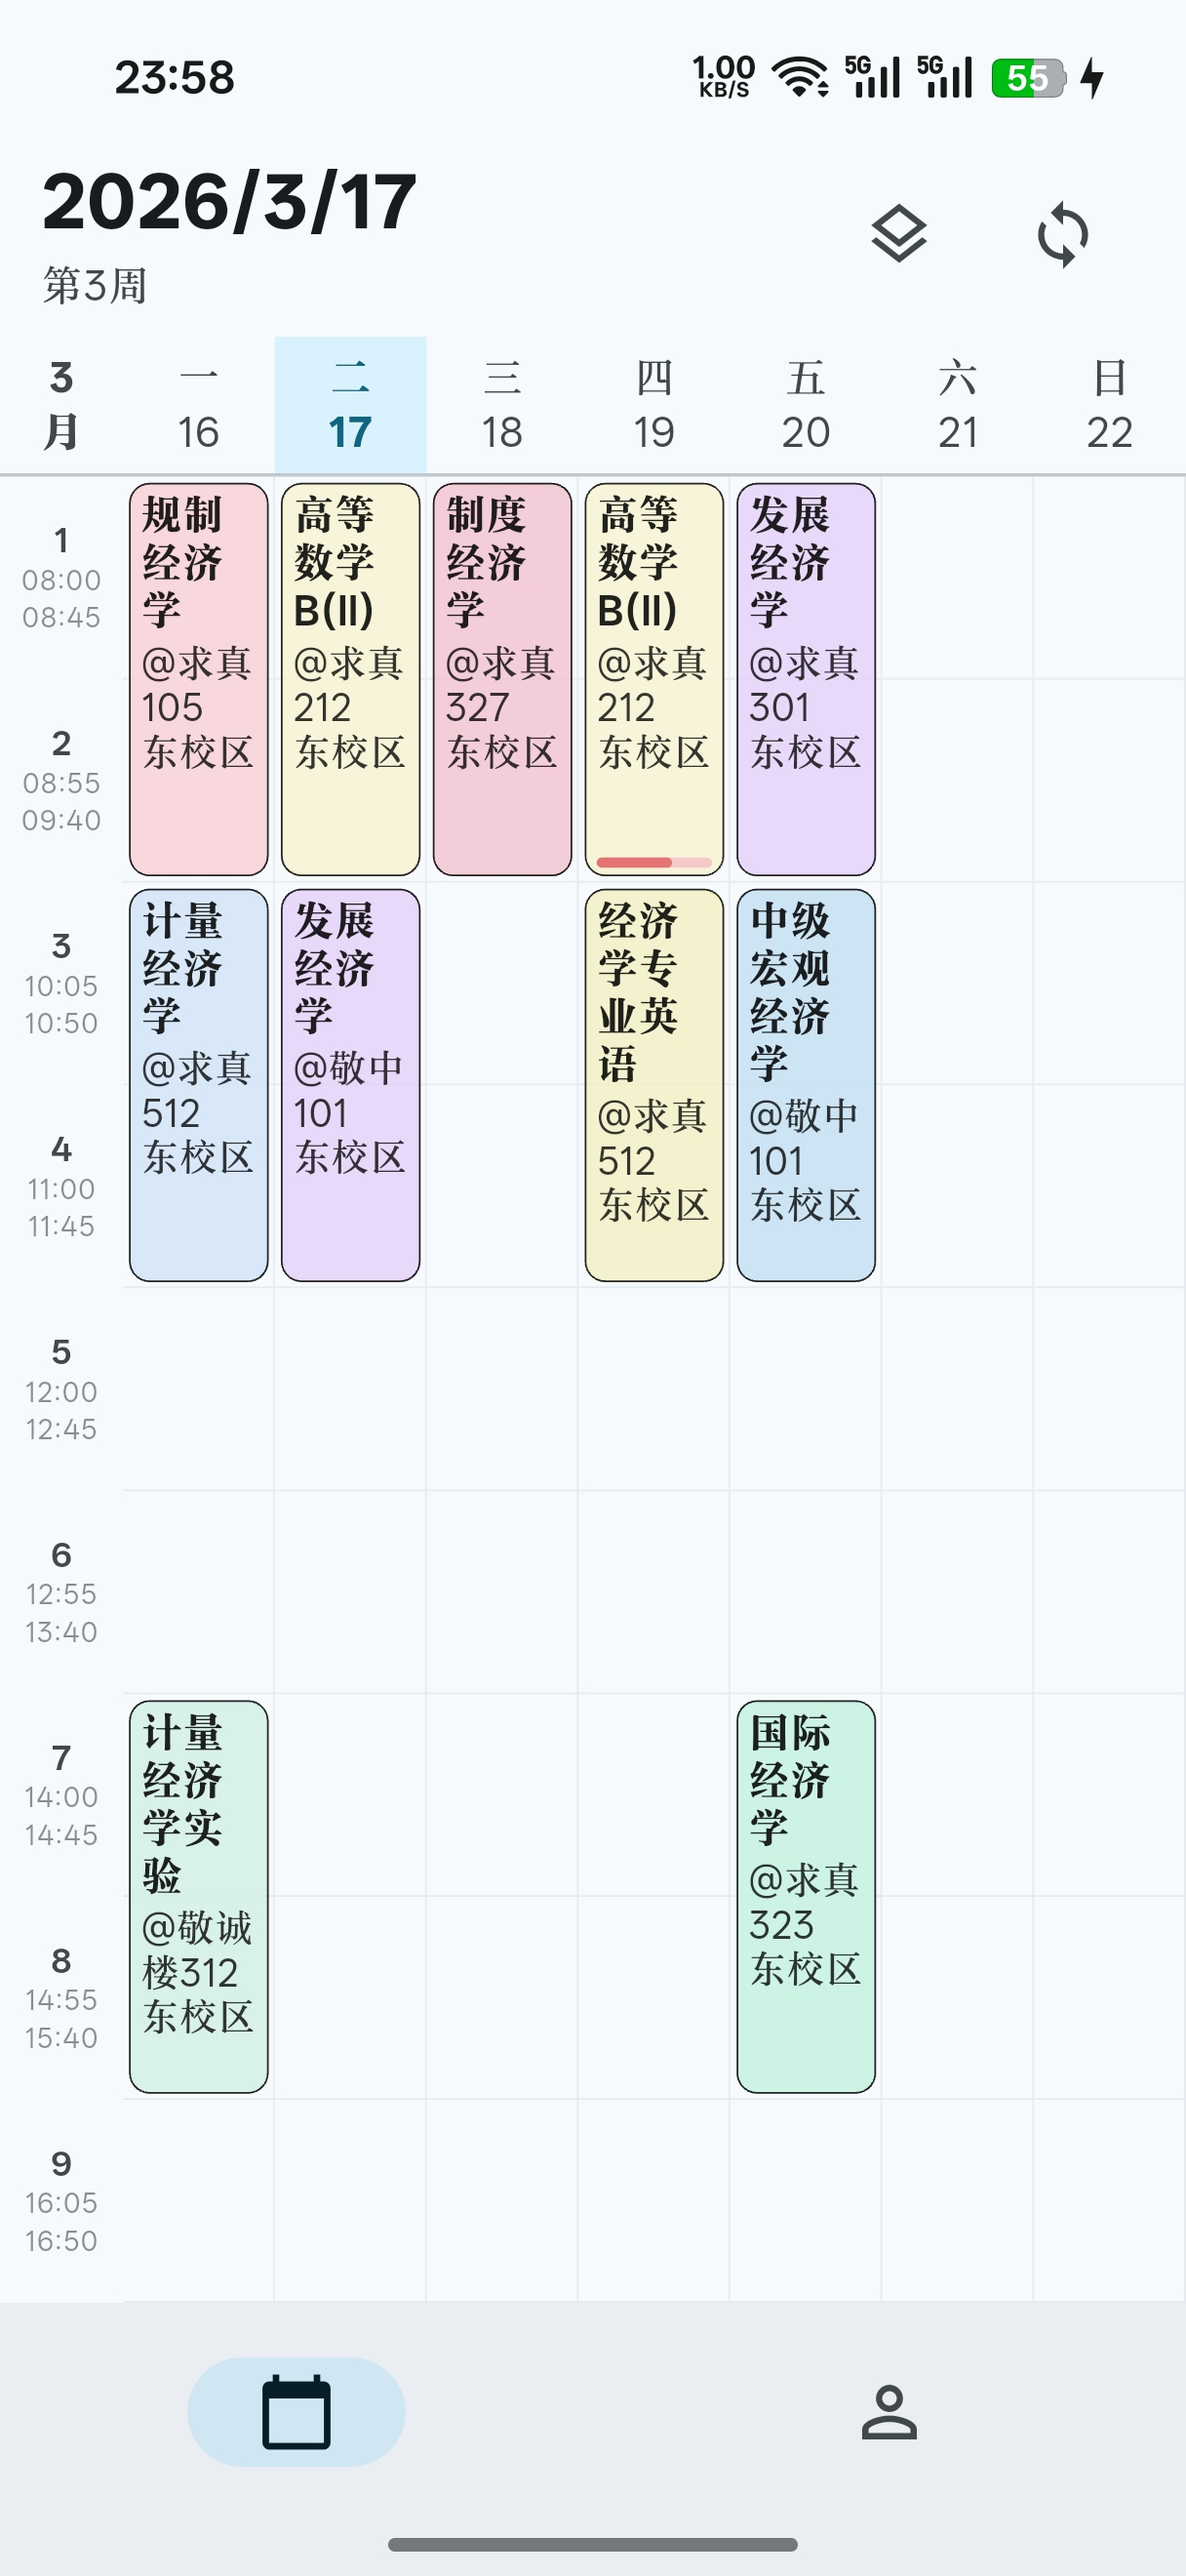
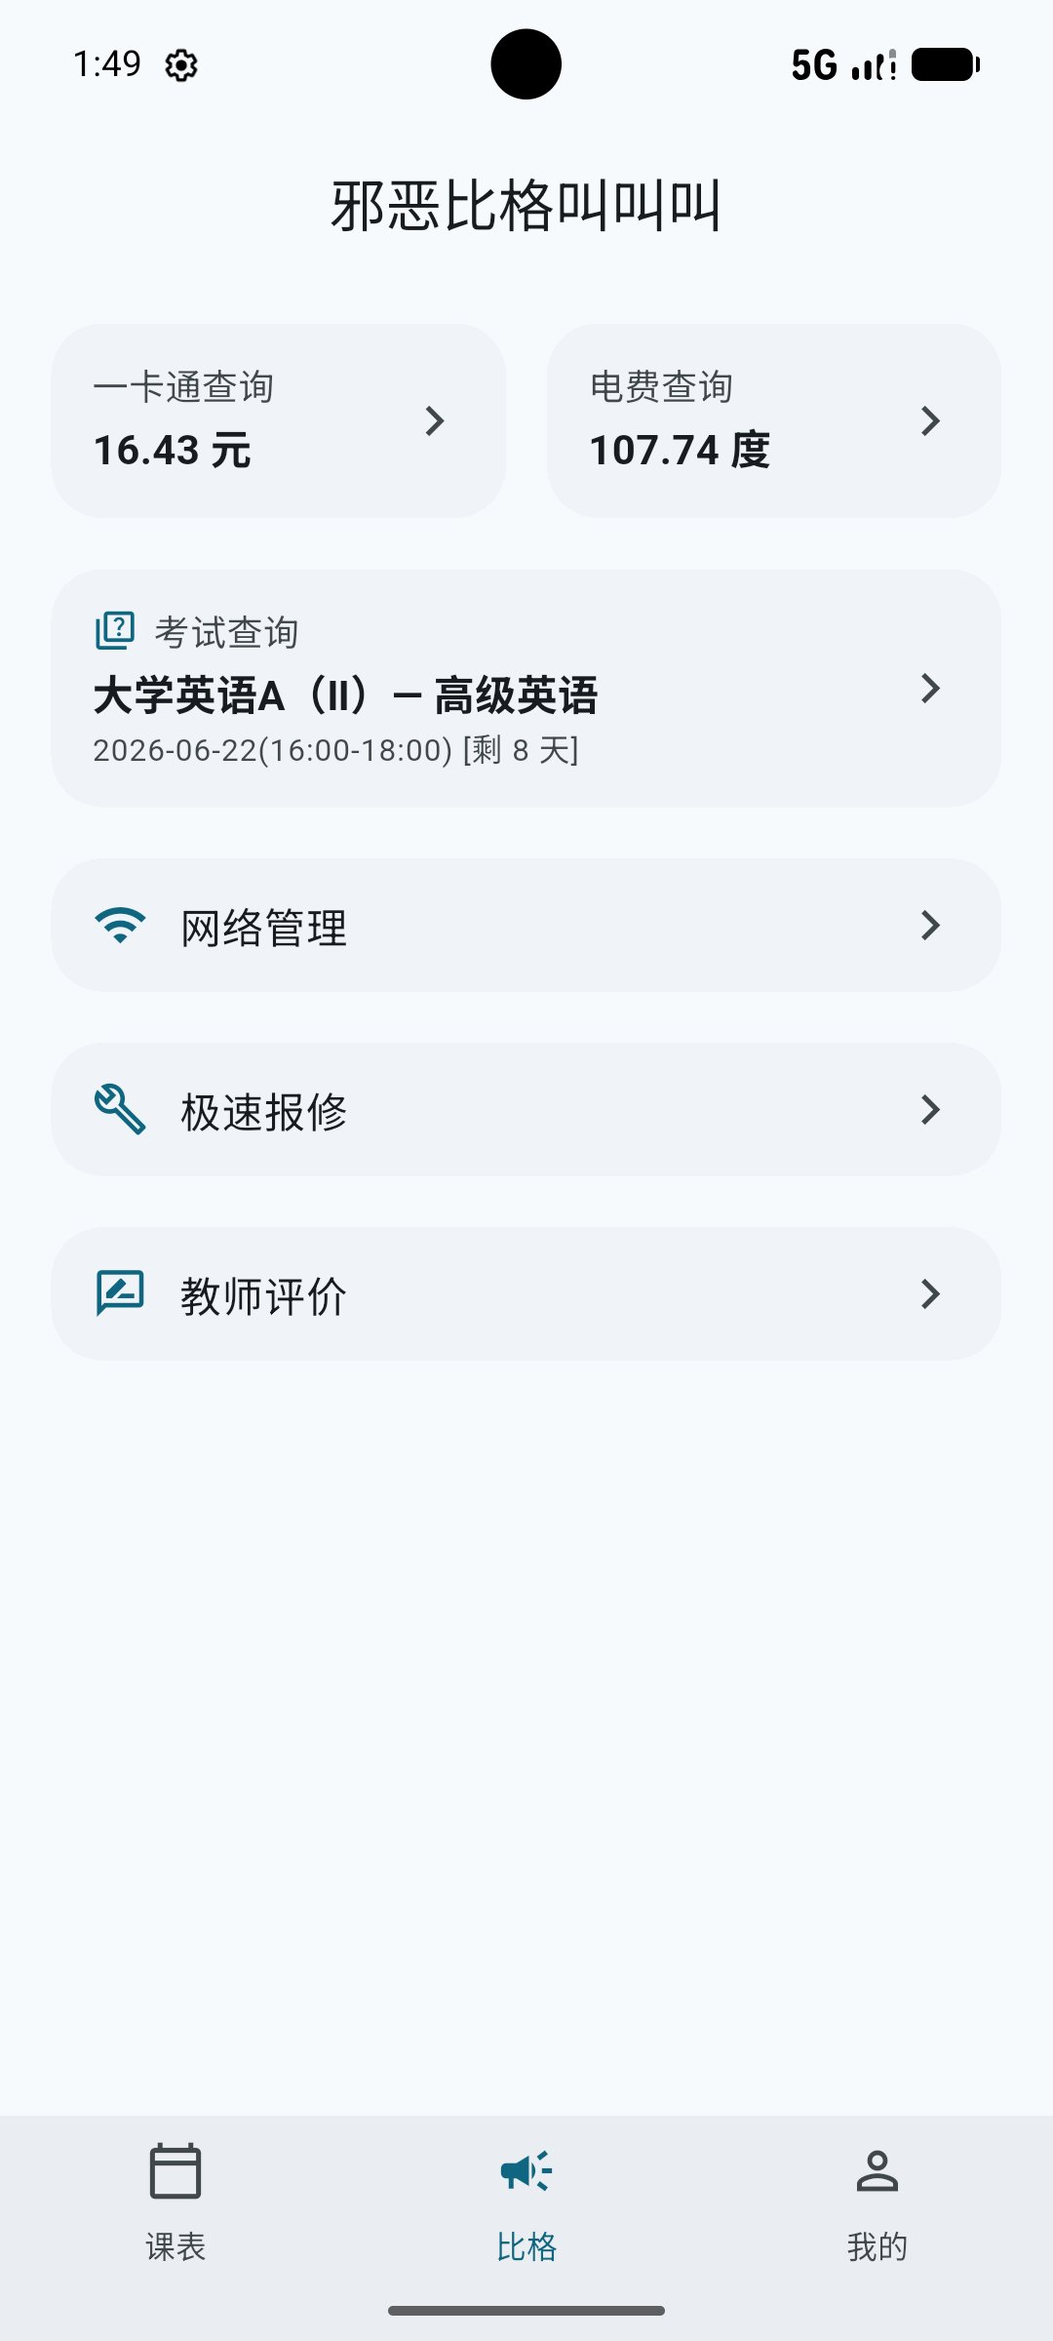
Add two screenshots and update README
Add new screenshot files screenshots/4.jpg and screenshots/5.jpg and update README.md to include their image tags. Also update existing screenshot binaries (screenshots/1.jpg, screenshots/2.jpg, screenshots/3.jpg) with new versions.

diff --git a/README.md b/README.md
@@ -30,6 +30,8 @@
   <img src="https://github.com/lose2me/xzitpocket/blob/main/screenshots/1.jpg" width="210px" />
   <img src="https://github.com/lose2me/xzitpocket/blob/main/screenshots/2.jpg" width="210px" />
   <img src="https://github.com/lose2me/xzitpocket/blob/main/screenshots/3.jpg" width="210px" />
+  <img src="https://github.com/lose2me/xzitpocket/blob/main/screenshots/4.jpg" width="210px" />
+  <img src="https://github.com/lose2me/xzitpocket/blob/main/screenshots/5.jpg" width="210px" />
 </p>
 
 
